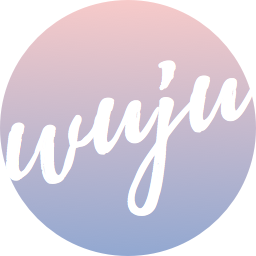
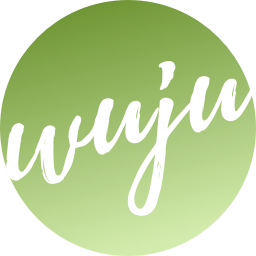
New Pantone Greenery Theme

diff --git a/index.html b/index.html
@@ -31,12 +31,12 @@
 
             <div class="profile-text">
 
-                <br/><h1>JULIANA WU</h1>
+                <br/><h1>juliana wu</h1>
                 <h4>developer &amp; designer</h4>
-                <h4><b>Rising senior</b> at <a href="http://www.princeton.edu/main/" target="_blank">Princeton University</a>.</h4>
+                <h4><b>Senior</b> at <a href="http://www.princeton.edu/main/" target="_blank">Princeton University</a>.</h4>
                 <p>
                 <h3>Hi there! I'm a CS Engineer with a passion for code, UI/UX, and product design. </h3>
-                <h3> I'm currently doing data/software at <a href = "http://www.mindshareworld.com/" target="_blank"><b>Mindshare Worldwide</b></a> this summer. See you in the fall!</h3> 
+                <h3> I'll be working as a software engineer in NYC after graduation. </h3> 
                 <p> 
                 <h2><a href="mailto:julianaw@princeton.edu">I'm like, hey, what's up, hello?</a></h2>
                 <p>

diff --git a/css/main.css b/css/main.css
@@ -16,7 +16,7 @@ a {
 
 #border-t, #border-b, #border-l, #border-r {
   position: fixed;
-  background: #F7CAC9;
+  background: #88B04B;
   z-index: 9999;
   display:block;
 }
